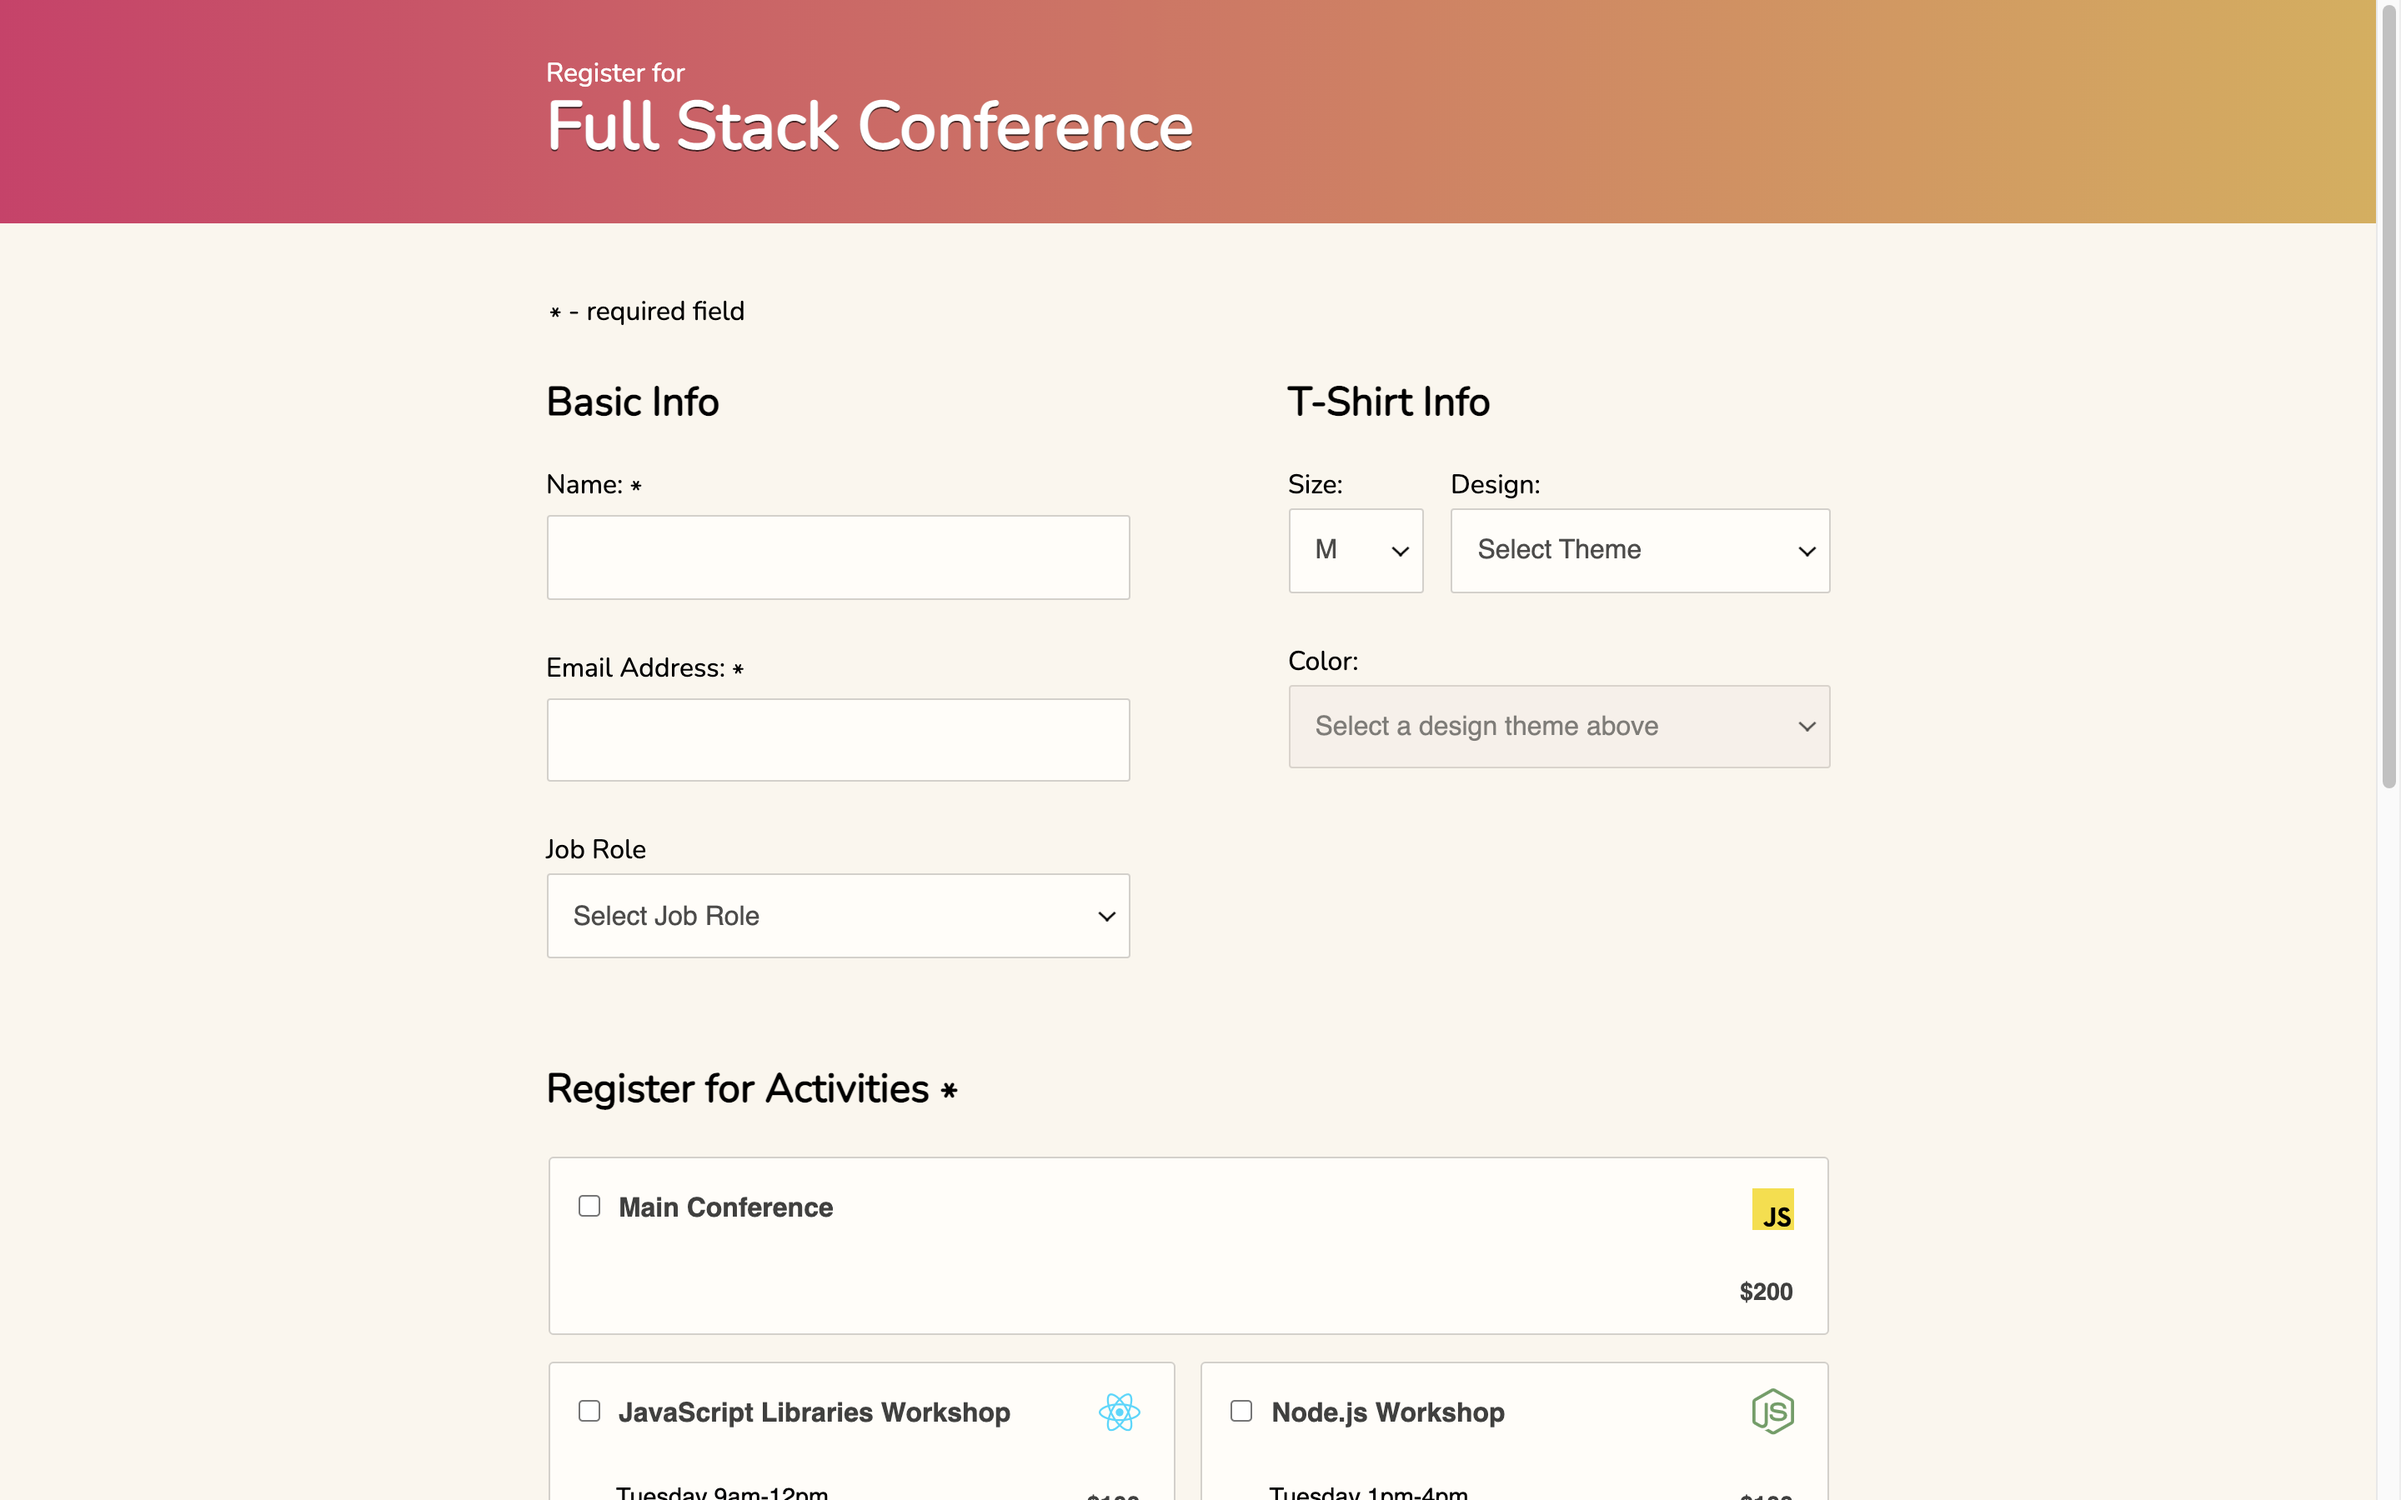
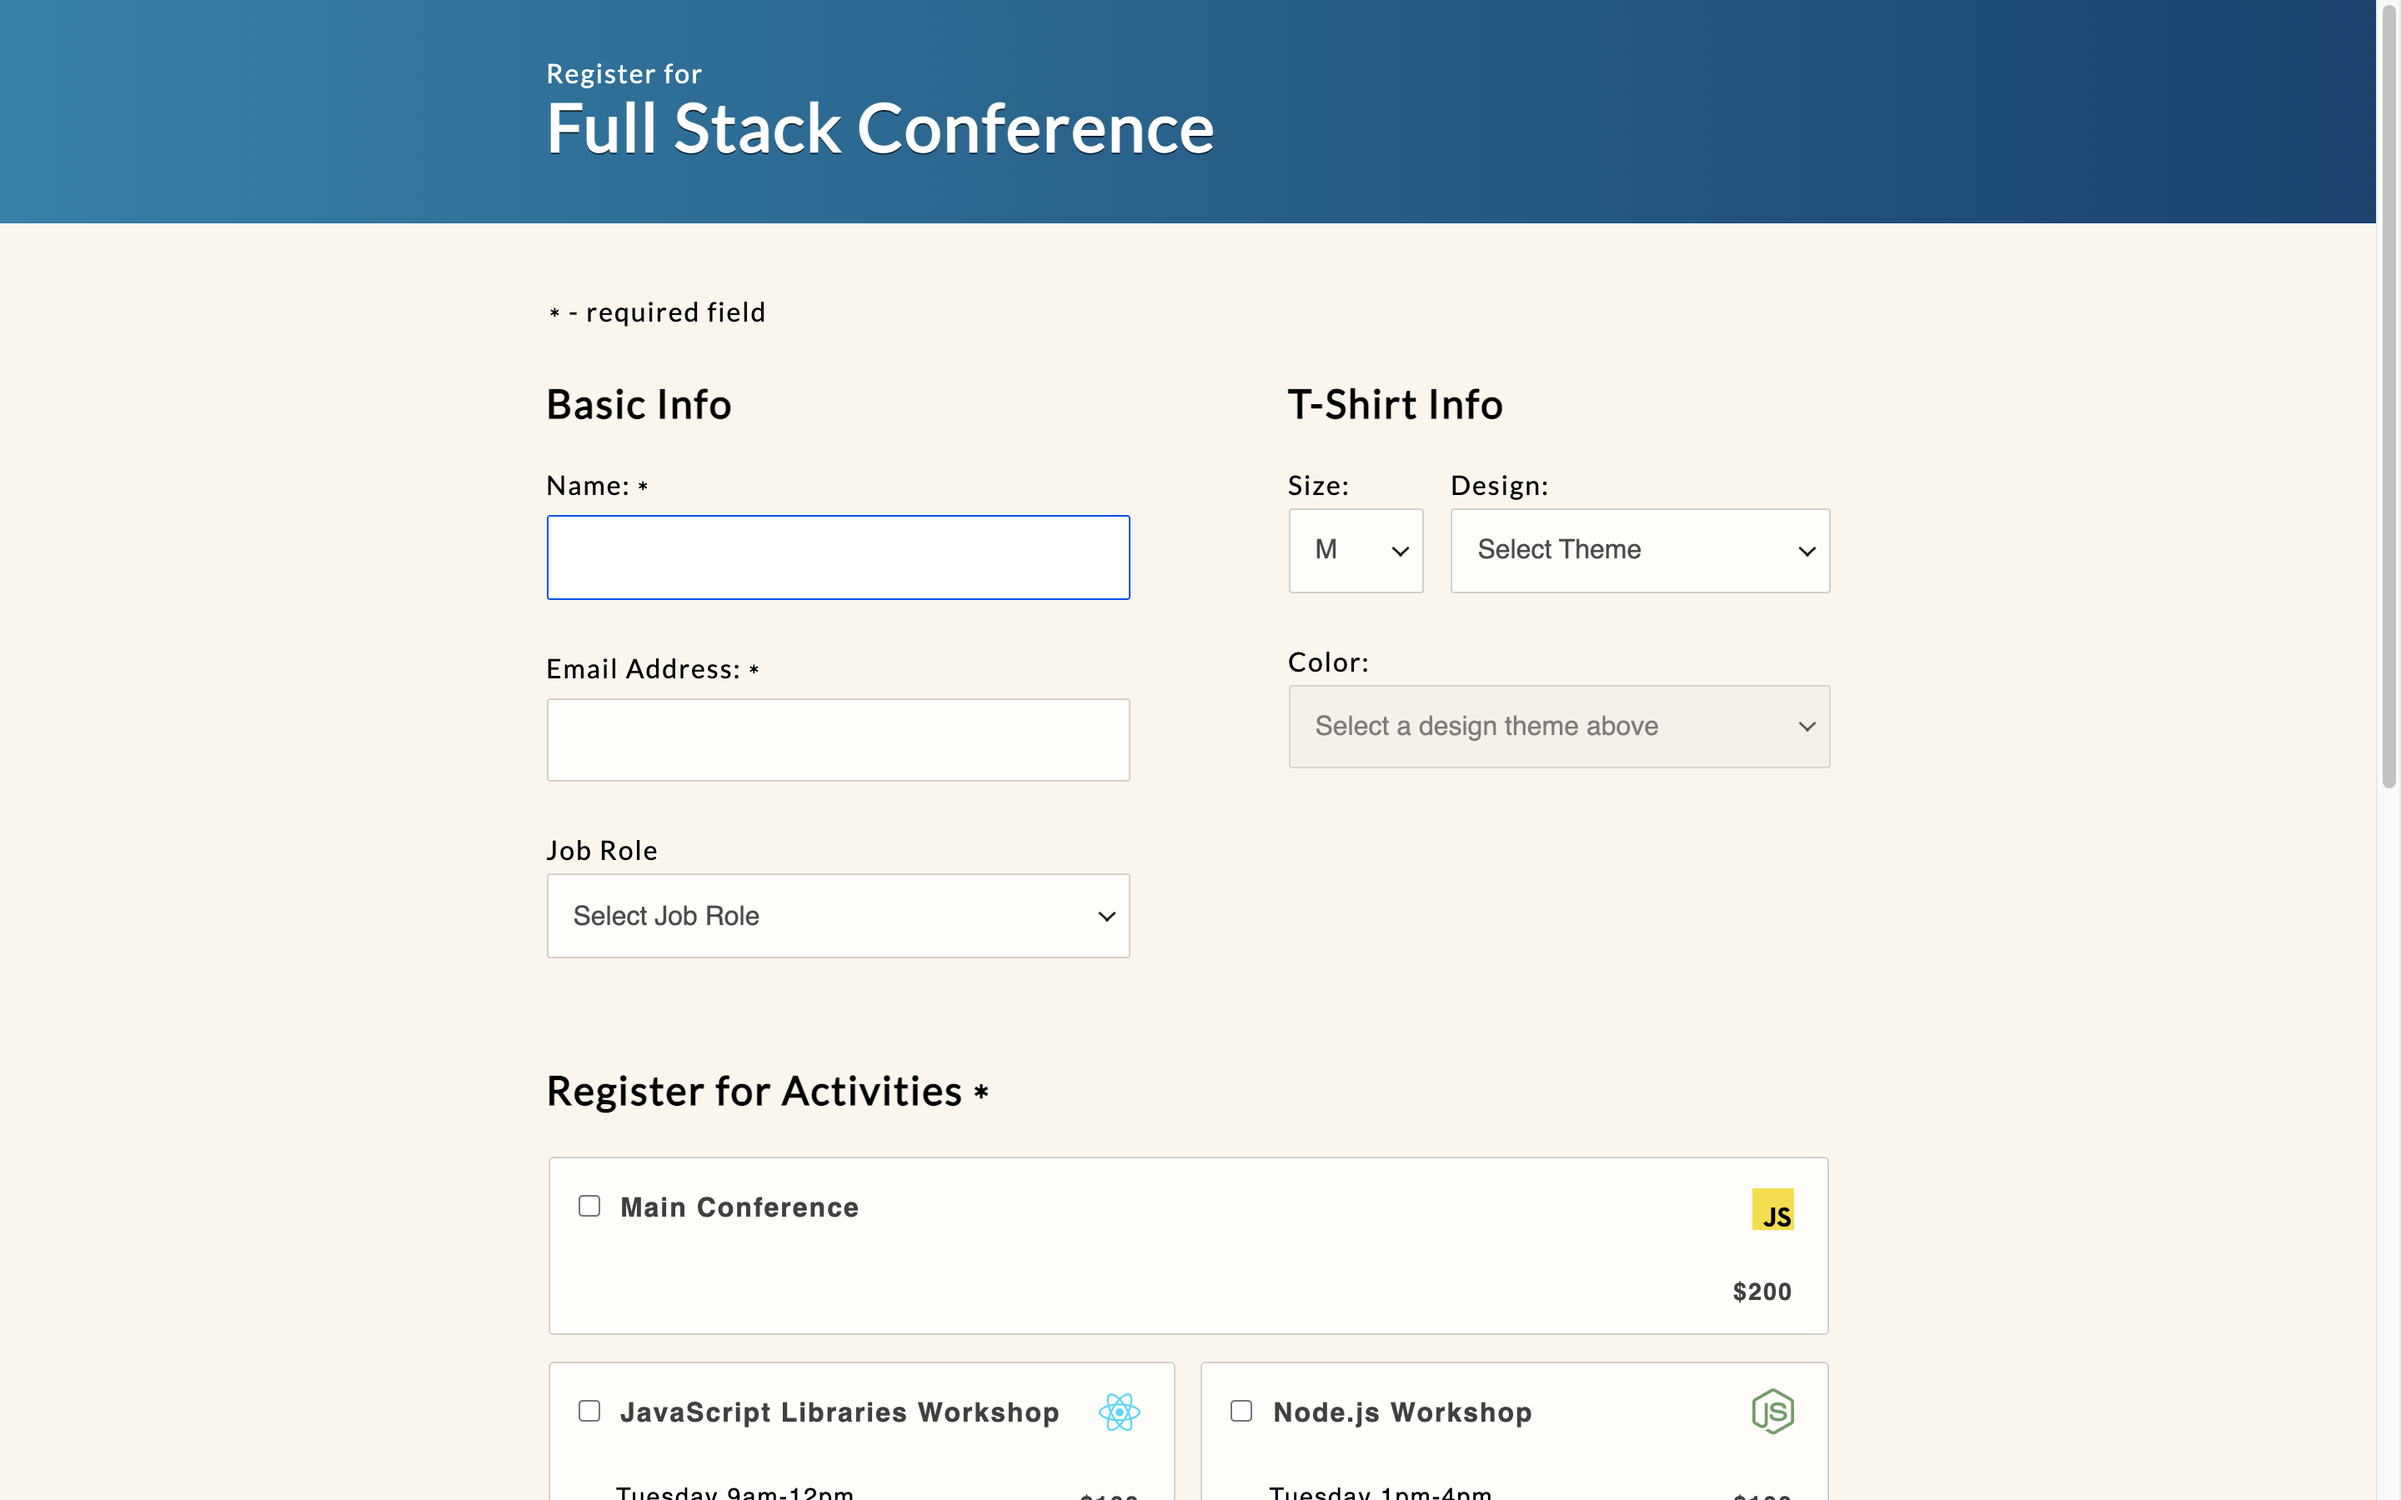
first submit

diff --git a/public/css/styles.css b/public/css/styles.css
@@ -2,6 +2,12 @@
 /*
   Main styles
 */
+
+@import url('https://fonts.googleapis.com/css2?family=Raleway+Dots&display=swap');
+@import url('https://fonts.googleapis.com/css2?family=Raleway:wght@200&display=swap');
+
+
+
 * {
   box-sizing: border-box;
 }
@@ -32,11 +38,11 @@ article {
 }
 
 h1,h2,h3,h4,h5,p{
-  font-family: 'Merriweather', serif;
+  font-family: 'Raleway', sans-serif;
 }
 
 h5{
-  font-family: 'Lato', 'Helvetica Neue', Helvetica, Arial, sans-serif;
+  font-family: 'Raleway Dots', cursive;
   letter-spacing: 2.5px;
   -webkit-text-transform: uppercase;
   text-transform: uppercase;
@@ -137,7 +143,7 @@ nav a span {
   height: 100%;
   min-height: 100%;
   padding: 20px;
-  background: #000;
+  background: #002A4A;
 }
 
 .sidebar-info-box {
@@ -166,17 +172,19 @@ nav a span {
 .sidebar p {
   text-rendering: optimizeLegibility;
   line-height: 1.6;
-  font-size: 14px;
-  color: #999
+  font-size: 17px;
+  color: rgb(255, 255, 255);
+  letter-spacing: 1px;
+  
 }
 
 .sidebar a {
-  font-family: 'Lato', 'Helvetica Neue', Helvetica, Arial, sans-serif;
-  font-weight: 600;
+  font-family: 'Raleway Dots', cursive;
+  font-weight: 900;
   font-size: 13px;
   letter-spacing: 2.5px;
   text-transform: uppercase;
-  color: #555;
+  color: rgb(255, 255, 255);
 }
 
 .header {
@@ -317,6 +325,15 @@ nav a span {
     border-bottom: none;
   }
 
+  .fourImage {
+    display: block;
+    margin-left: auto;
+    margin-right: auto;
+    /* width: 50%; */
+    width: 70%;
+    height: auto;
+  }
+
   .two-col .box:nth-of-type(1) {
     width: 70%;
     padding-right: 15px;
@@ -360,5 +377,77 @@ nav a span {
 
   .inner-wrapper {
     max-width: 1200px;
+  }
+}
+
+/* 404 page */
+
+.container {
+  display: flex;
+  text-align: center;
+  color: white;
+}
+
+.maintitle {
+  position: absolute;
+  top: 45%;
+  left: 50%;
+  transform: translate(-50%, -50%);
+  color: rgb(255, 255, 255);
+  font-family: 'Raleway Dots', cursive;
+  letter-spacing: 3px;
+  /* font-size: 5vw; */
+}
+
+.subheading {
+  position: absolute;
+  top: 55%;
+  left: 50%;
+  transform: translate(-50%, -50%);
+  color: rgb(255, 255, 255);
+  font-family: 'Raleway Dots', cursive;
+  /* font-size: 2vw; */
+  letter-spacing: 1px;
+}
+
+.back a {
+  position: absolute;
+  top: 65%;
+  left: 50%;
+  transform: translate(-50%, -50%);
+  color: rgb(255, 255, 255);
+  font-family: 'Raleway Dots', cursive;
+  letter-spacing: 1px;
+}
+
+/* 404 mobile page */
+
+@media screen and (max-width: 640px) {
+
+  .subheading {
+    position: absolute;
+    top: 60%;
+    left: 50%;
+    transform: translate(-50%, -50%);
+    color: rgb(255, 255, 255);
+    font-family: 'Raleway Dots', cursive;
+    /* font-size: 2vw; */
+    letter-spacing: 1px;
+  }
+
+  .back a {
+    position: absolute;
+    top: 70%;
+    left: 50%;
+    transform: translate(-50%, -50%);
+    color: rgb(255, 255, 255);
+    font-family: 'Raleway Dots', cursive;
+    letter-spacing: 1px;
+}
+
+/* logo */
+
+  .img {
+    width: 50px;  
   }
 }

diff --git a/routes.js b/routes.js
@@ -9,9 +9,9 @@ router.get('/', (req, res) => {
     res.render('index', { projects });
 });
 
-// router.get('/about', (req, res) => {
-//     res.render('about');
-// });
+router.get('/about', (req, res) => {
+    res.render('about');
+});
 
 router.get('/error', (req, res, next) => {
     console.log('Custom 500 error thrown')
@@ -26,15 +26,12 @@ router.get('/error', (req, res, next) => {
 
 router.get('/projects/:id', (req, res, next) => {
     const projectId = req.params.id;
-    const project = projects.find( ({id}) => id === +projectId);
-    // if (project) {
-        res.render('project', { projects });
-    // } else {
-    //     const err = new Error();
-    //     err.status = 404;
-    //     err.message = 'The project you\'re looking for doesn\'t exist yet!';
-    //     next(err);
-    // }
+    const project = projects.find(element => element.id === projectId);
+    if (project) {
+        res.render('project', { project });
+    } else {
+        next();
+    }
 });
 
 module.exports = router;

diff --git a/app.js b/app.js
@@ -15,10 +15,6 @@ app.use('/static', express.static('public'));
 
 app.use('/', routes);
 
-app.get('/about', (req, res) => {
-    res.render('about');
-});
-
 //404 errors
 
 app.use((req, res, next) => {
@@ -33,11 +29,11 @@ app.use((req, res, next) => {
 app.use((err, req, res, next) => {
     res.locals.error = err;
     if (err.status === 404) {
-        console.log('fish lip 404');
+        console.log('404');
         err.message = 'Page not found'
-        res.status(404).render('four', {err});
+        res.status(404).render('page-not-found', {err});
     } else {
-        console.log('500 now boi');
+        console.log('500 error');
         res.status(err.status || 500).render('error', {err});
     }
 });

diff --git a/public/css/normalize.css b/public/css/normalize.css
@@ -147,6 +147,7 @@ sup {
 
 img {
   border-style: none;
+  width: 100px;
 }
 
 /* Forms
